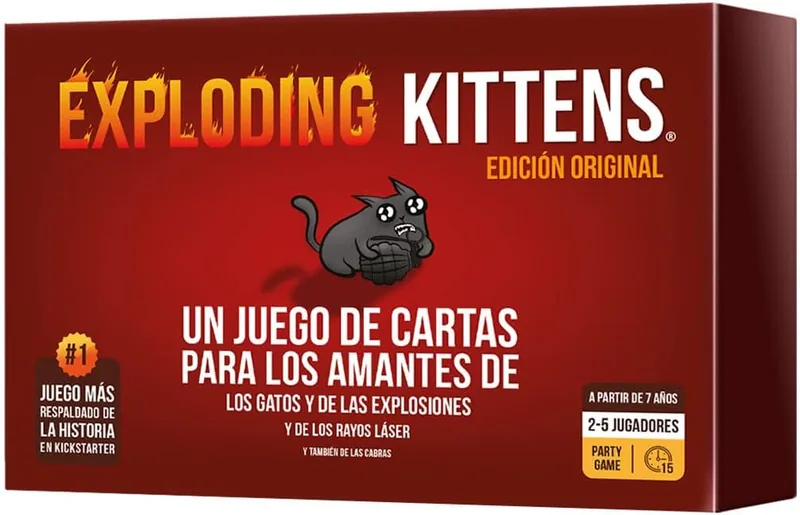
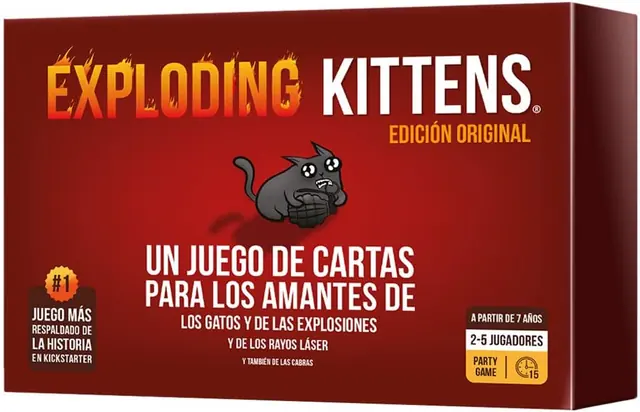
Imágenes de items a 640 px y calidad 76, y portadas con prioridad de carga

diff --git a/public/js/app.js b/public/js/app.js
@@ -406,12 +406,14 @@ function topBar(title, extra = '') {
   `;
 }
 
-function catalogThumb(item, cls) {
+function catalogThumb(item, cls, rank = Infinity) {
   const emoji = CATEGORIES[item.category]?.emoji ?? '📦';
   const cat   = esc(item.category);
+  const load  = rank < 6 ? 'eager' : 'lazy';
+  const prio  = rank < 2 ? ' fetchpriority="high"' : '';
   if (!item.image) return `<div class="${cls} ${cls}--fallback" data-cat="${cat}">${emoji}</div>`;
 
-  return `<img class="${cls}" data-cat="${cat}" src="${esc(item.image)}" alt="" loading="lazy"
+  return `<img class="${cls}" data-cat="${cat}" src="${esc(item.image)}" alt="" loading="${load}"${prio}
     onerror="this.outerHTML='<div class=\\'${cls} ${cls}--fallback\\' data-cat=\\'${cat}\\'>${emoji}</div>'">`;
 }
 
@@ -423,13 +425,13 @@ function catalogMeta(item) {
   return parts.filter(Boolean).join(' · ');
 }
 
-function buildCatalogCard(item, groupMin) {
+function buildCatalogCard(item, groupMin, rank) {
   const meta  = catalogMeta(item);
   const votes = item._votes ?? 0;
 
   return `
     <a class="bg-card" href="#item/${esc(item.id)}">
-      ${catalogThumb(item, 'bg-thumb')}
+      ${catalogThumb(item, 'bg-thumb', rank)}
       <div class="bg-card-body">
         <p class="bg-card-name">${esc(item.name)}</p>
         ${meta ? `<p class="bg-card-meta">${esc(meta)}</p>` : ''}
@@ -441,7 +443,7 @@ function buildCatalogCard(item, groupMin) {
   `;
 }
 
-function buildCatalogTile(item, groupMin) {
+function buildCatalogTile(item, groupMin, rank) {
   const d        = item.details ?? {};
   const isVideo  = item.category === 'videogame';
   const platform = (d.platforms ?? []).join(' / ');
@@ -454,7 +456,7 @@ function buildCatalogTile(item, groupMin) {
   return `
     <a class="bg-tile" href="#item/${esc(item.id)}">
       <div class="bg-tile-media">
-        ${catalogThumb(item, 'bg-tile-img')}
+        ${catalogThumb(item, 'bg-tile-img', rank)}
         ${isVideo && platform ? `<span class="bg-tile-badge">${esc(platform)}</span>` : ''}
       </div>
       <p class="bg-tile-name">${esc(item.name)}</p>
@@ -785,7 +787,7 @@ function buildCatalogDetail(item, rating, noteCount) {
 
   return `
     <article class="detail">
-      ${catalogThumb(item, 'bg-hero')}
+      ${catalogThumb(item, 'bg-hero', 0)}
       <h2 class="bg-detail-name">${esc(item.name)}</h2>
       <p class="detail-rating" id="detail-rating">${ratingHtml(rating)}</p>
       ${item.description ? `<p class="detail-desc">${esc(item.description)}</p>` : ''}
@@ -1152,12 +1154,12 @@ function renderResults(state) {
     listHtml   = sections.map(buildFoodRow).join('');
   } else if (isCatalog && state.view === 'grid') {
     shownCount = filtered.length;
-    listHtml   = `<div class="bg-grid bg-grid--${state.cfg.cols}">${filtered.map(item => buildCatalogTile(item, groupMin)).join('')}</div>`;
+    listHtml   = `<div class="bg-grid bg-grid--${state.cfg.cols}">${filtered.map((item, i) => buildCatalogTile(item, groupMin, i)).join('')}</div>`;
   } else {
     const filtering = isCatalog && state.active.size > 0;
     const displayed = state.showAll || filtering ? filtered : filtered.slice(0, state.initial ?? INITIAL_ITEMS);
     shownCount = displayed.length;
-    listHtml   = `<div class="items-list">${displayed.map(isCatalog ? (item => buildCatalogCard(item, groupMin)) : buildItemCard).join('')}</div>`;
+    listHtml   = `<div class="items-list">${displayed.map(isCatalog ? ((item, i) => buildCatalogCard(item, groupMin, i)) : buildItemCard).join('')}</div>`;
   }
 
   const hasMore = filtered.length > shownCount;

diff --git a/scripts/optimize-images.js b/scripts/optimize-images.js
@@ -13,7 +13,10 @@ const BOXES = {
   'subtitulo.png': { width: 320, height: 100 },
 };
 const DEFAULT_BOX = { width: 320, height: 320 };
-const ITEM_BOX    = { width: 800, height: 800 };
+const ITEM_BOX    = { width: 640, height: 640 };
+
+const ITEM_QUALITY = 76;
+const UI_QUALITY   = 82;
 
 const IMAGE_EXT = /\.(png|jpe?g|webp)$/i;
 const FORCE     = process.argv.includes('--forzar');
@@ -70,7 +73,7 @@ async function convert({ src, out, box }) {
   await sharp(src)
     .rotate()
     .resize({ ...box, fit: 'inside', withoutEnlargement: true })
-    .webp({ quality: 82, effort: 6 })
+    .webp({ quality: box === ITEM_BOX ? ITEM_QUALITY : UI_QUALITY, effort: 6 })
     .toFile(out);
 }
 
